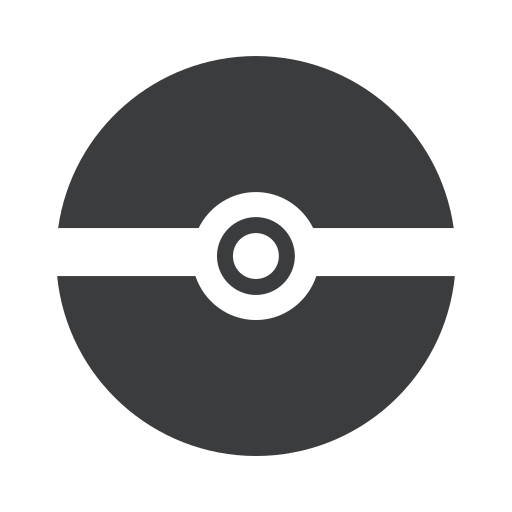
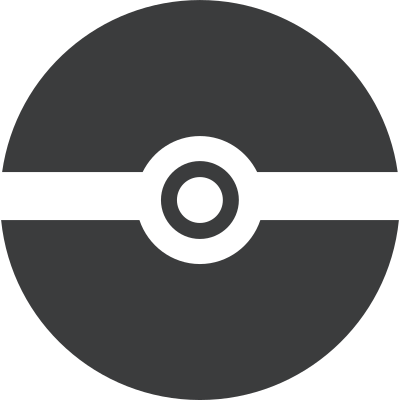
fixed some style and changed pokeball-bg img file to new height and width

diff --git a/src/script/animation.js b/src/script/animation.js
@@ -1,3 +1,5 @@
+let deactivatedModal = false;
+
 // Animates loading more Pokemon Button
 function toggleLoadingButtonAnimation() {
     let defaultBall = document.getElementById('loading-btn-wrapper');
@@ -16,60 +18,52 @@ function startButtonAnimation(loadingBall, defaultBall) {
 
 // Animates toggle Modal
 function openModal(i) {
+    if (deactivatedModal) return;
+    deactivatedModal = true;
 
-    if (!modalAnimationRunning) {
-        modalAnimationRunning = true;
-        let data = loadedPokemonGerman;
-        let pokemonName = data[i]['name'];
-        let pokemonID = data[i]['id'].toString().padStart(3, "0");
-        let pokemonImage = data[i]['image']; // URL of Image of Pokemon
-        let pokemonColor = data[i]['color']; // Color of Pokemon used as BG-CSS-Class
+    let data = loadedPokemonGerman;
+    let pokemonName = data[i]['name'];
+    let pokemonID = data[i]['id'].toString().padStart(3, "0");
+    let pokemonImage = data[i]['image']; // URL of Image of Pokemon
+    let pokemonColor = data[i]['color']; // Color of Pokemon used as BG-CSS-Class
 
-        document.getElementById('pokedexName').innerHTML = pokemonName;
-        document.getElementById('pokedexId').innerHTML = '#' + pokemonID;
-        document.getElementById('pokedexSprite').src = pokemonImage;
-        document.getElementById('pokedex').classList.add(pokemonColor);
+    document.getElementById('pokedexName').innerHTML = pokemonName;
+    document.getElementById('pokedexId').innerHTML = '#' + pokemonID;
+    document.getElementById('pokedexSprite').src = pokemonImage;
+    document.getElementById('pokedex').classList.add(pokemonColor);
 
-        for (let j = 0; j < loadedPokemonGerman[i].types.length; j++) {
-            let englishType = loadedPokemonGerman[i].types[j];
-            let germanType = germanTypes[englishType];
+    for (let j = 0; j < loadedPokemonGerman[i].types.length; j++) {
+        let englishType = loadedPokemonGerman[i].types[j];
+        let germanType = germanTypes[englishType];
 
-            document.getElementById(`pokedexTypes`).innerHTML += `
+        document.getElementById(`pokedexTypes`).innerHTML += `
          <div class="${englishType} type">
              ${germanType}
          </div>
      `;
-        }
-
-        document.getElementById('card-modal').classList.add('modal-animation');
-        document.getElementById('header').classList.add('blur');
-        document.getElementById('listOfPokemon').classList.add('blur');
-        document.getElementById('load-button').classList.add('blur');
     }
-    
-    setTimeout(() => {
-        modalAnimationRunning = false;
-    }, 600);
+
+    document.getElementById('card-modal').classList.add('modal-animation');
+    document.getElementById('header').classList.add('blur');
+    document.getElementById('listOfPokemon').classList.add('blur');
+    document.getElementById('load-button').classList.add('blur');
 }
 
 
 function closeModal() {
-    if (!modalAnimationRunning) {
-        modalAnimationRunning = true;
-        document.getElementById('header').classList.remove('blur');
-        document.getElementById('listOfPokemon').classList.remove('blur');
-        document.getElementById('load-button').classList.remove('blur');
-        document.getElementById('card-modal').classList.remove('modal-animation');
+    document.getElementById('header').classList.remove('blur');
+    document.getElementById('listOfPokemon').classList.remove('blur');
+    document.getElementById('load-button').classList.remove('blur');
+    document.getElementById('card-modal').classList.remove('modal-animation');
 
-        setTimeout(() => {
-            clearModalInfos()
-        }, 600);
-    }
+    setTimeout(() => {
+        clearModalInfos()
+    }, 600);
 }
 
 
 function clearModalInfos() {
     document.getElementById(`pokedexTypes`).innerHTML = '';
     document.getElementById('pokedex').classList = '';
-    modalAnimationRunning = false;
+    deactivatedModal = false;
 }

diff --git a/src/css/style.css b/src/css/style.css
@@ -87,6 +87,39 @@ header {
     border-radius: 24px;
 }
 
+#card-bg {
+    position: absolute;
+    top: 0;
+    bottom: 0;
+    left: 0;
+    right: 0;
+    width: 100%;
+    height: 250px;
+    border-radius: 8px;
+    border: 1px solid rgba(0, 0, 0, 0.2);
+    box-shadow: 0 0 15px rgba(0, 0, 0, 0.5);
+    transition: 0.5s ease;
+    /* transition-delay: 525ms; */
+    z-index: 1;
+}
+
+.pokemon-cards::before {
+    content: '';
+    position: absolute;
+    top: 0;
+    bottom: 0;
+    left: 0;
+    right: 0;
+    width: 100%;
+    height: 250px;
+    border-radius: 8px;
+    transition: 0.5s ease;
+    /* transition-delay: 525ms; */
+    background-color: white;
+    z-index: 1;
+
+}
+
 
 /* Upper Part of the Card */
 #pokedexSprite {
@@ -161,7 +194,6 @@ header {
     flex: 1;
 }
 
-
 /* List of all Pokemon */
 .pokemon-cards {
     display: flex;
@@ -171,11 +203,10 @@ header {
     width: 250px;
     height: 250px;
     border-radius: 8px;
-    border: 1px solid rgba(0, 0, 0, 0.5);
-    box-shadow: 0 0 15px rgba(0, 0, 0, 0.5);
+    
     transition: 0.5s ease;
     cursor: pointer;
-    margin: 30px 0;
+    margin: 50px 30px;
 }
 
 #listOfPokemon {
@@ -183,9 +214,7 @@ header {
     flex-wrap: wrap;
     justify-content: center;
     align-items: center;
-    padding-top: 100px;
-    gap: 40px;
-    overflow: hidden;
+    padding-top: 100px;  
     transition: .4s;
 }
 
@@ -198,6 +227,8 @@ header {
     top: -21%;
     text-align: center;
     gap: 8px;
+    z-index: 1;
+    transition: 225ms;
 }
 
 .pokeball-bg::before {
@@ -206,8 +237,11 @@ header {
     position: absolute;
     left: 0;
     top: 0;
-    width: 100%;
-    height: 100%;
+    right: 0;
+    bottom: 0;
+    margin: auto;
+    width: 80%;
+    height: 80%;
     opacity: 0.5;
     background-image: url('../img/pokeball-bg.png');
     background-position: center;
@@ -240,6 +274,7 @@ header {
     color: white;
     position: relative;
     bottom: 20%;
+    z-index: 1;
 }
 
 .card-line {
@@ -250,6 +285,7 @@ header {
     visibility: hidden;
     transition: 425ms ease-out;
     transform: scale(0, 1);
+    z-index: 1;
 }
 
 .pokemon-sprite {
@@ -264,13 +300,14 @@ header {
     visibility: hidden;
     text-shadow: 1px 0 0 #000, 0 -1px 0 #000, 0 1px 0 #000, -1px 0 0 #000;
     color: white;
-    transition: 625ms ease;
+    transition: 425ms ease;
     position: relative;
     top: -20%;
     text-align: center;
     font-size: 0.8rem;
     padding: 8px;
-    transform: scale(1, 0);
+    /* transform: scale(1, 0); */
     font-family: cursive;
     font-size: 1rem;
+    z-index: 1;
 }

diff --git a/src/css/animation.css b/src/css/animation.css
@@ -1,27 +1,37 @@
 /* ============ Hover Effects on cards ============== */
 .pokemon-cards:hover {
-    height: 430px;
-    transition-delay: 525ms;
+    z-index: 2;
+}
+
+.pokemon-cards:hover #card-bg {
+    height: 465px;
+}
+
+.pokemon-cards:hover::before {
+    height: 465px;
 }
 
 .pokemon-cards:hover .pokemon-types {
     opacity: 1;
     visibility: visible;
-    transition-delay: 1125ms;
+    transition-delay: 225ms;
 }
 
 .pokemon-cards:hover .pokemon-flavor {
     opacity: 1;
     visibility: visible;
-    transition-delay: 725ms;
-    transform: scale(1, 1);
+    transition-delay: 225ms;
 }
 
 .pokemon-cards:hover .card-line {
     opacity: 1;
     visibility: visible;
-    transition-delay: 725ms;
+    transition-delay: 225ms;
     transform: scale(1, 1);
+}
+
+.pokemon-cards:hover .pokeball-bg {
+    top: -36%;
 }
 
 .pokemon-cards:hover .pokeball-bg::before {

diff --git a/src/script/script.js b/src/script/script.js
@@ -220,8 +220,8 @@ function doNotClose(event) {
 
 function singlePokemonCardHTML(i, pokemonName, pokemonID, pokemonImage, pokemonColor, pokemonFlavor) {
     return `
-    <div class="d-none pokemon-cards ${pokemonColor}" id="pokemon${i}" onclick="openModal(${i})">
-    
+    <div class="d-none pokemon-cards" id="pokemon${i}" onclick="openModal(${i})">
+        <div id="card-bg" class="${pokemonColor}"></div>
         <div class="pokeball-bg">
             <img class="pokemon-sprite" src="${pokemonImage}" alt="" loading="lazy">
 
